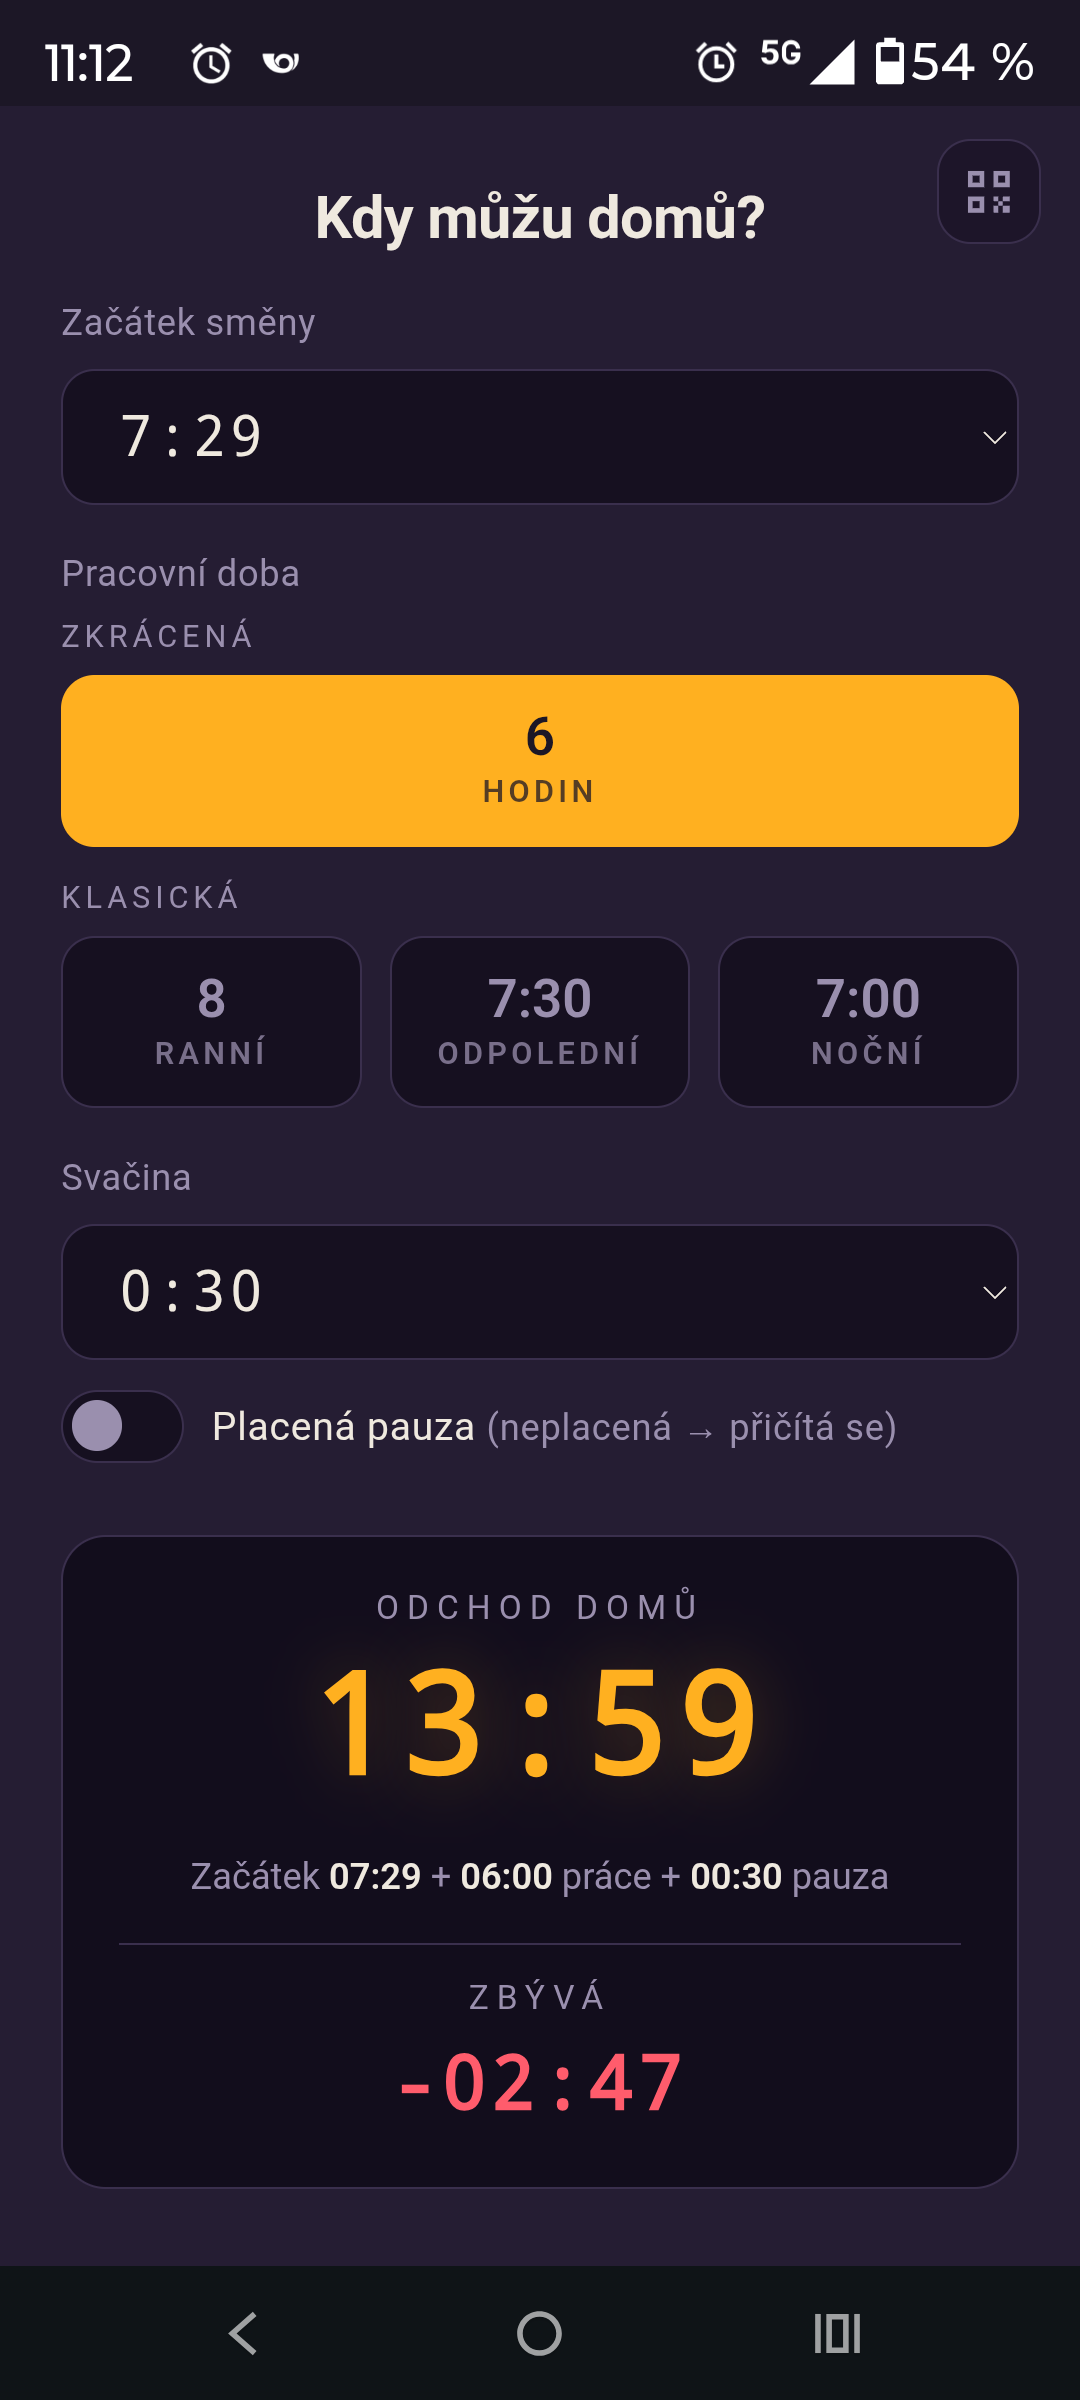
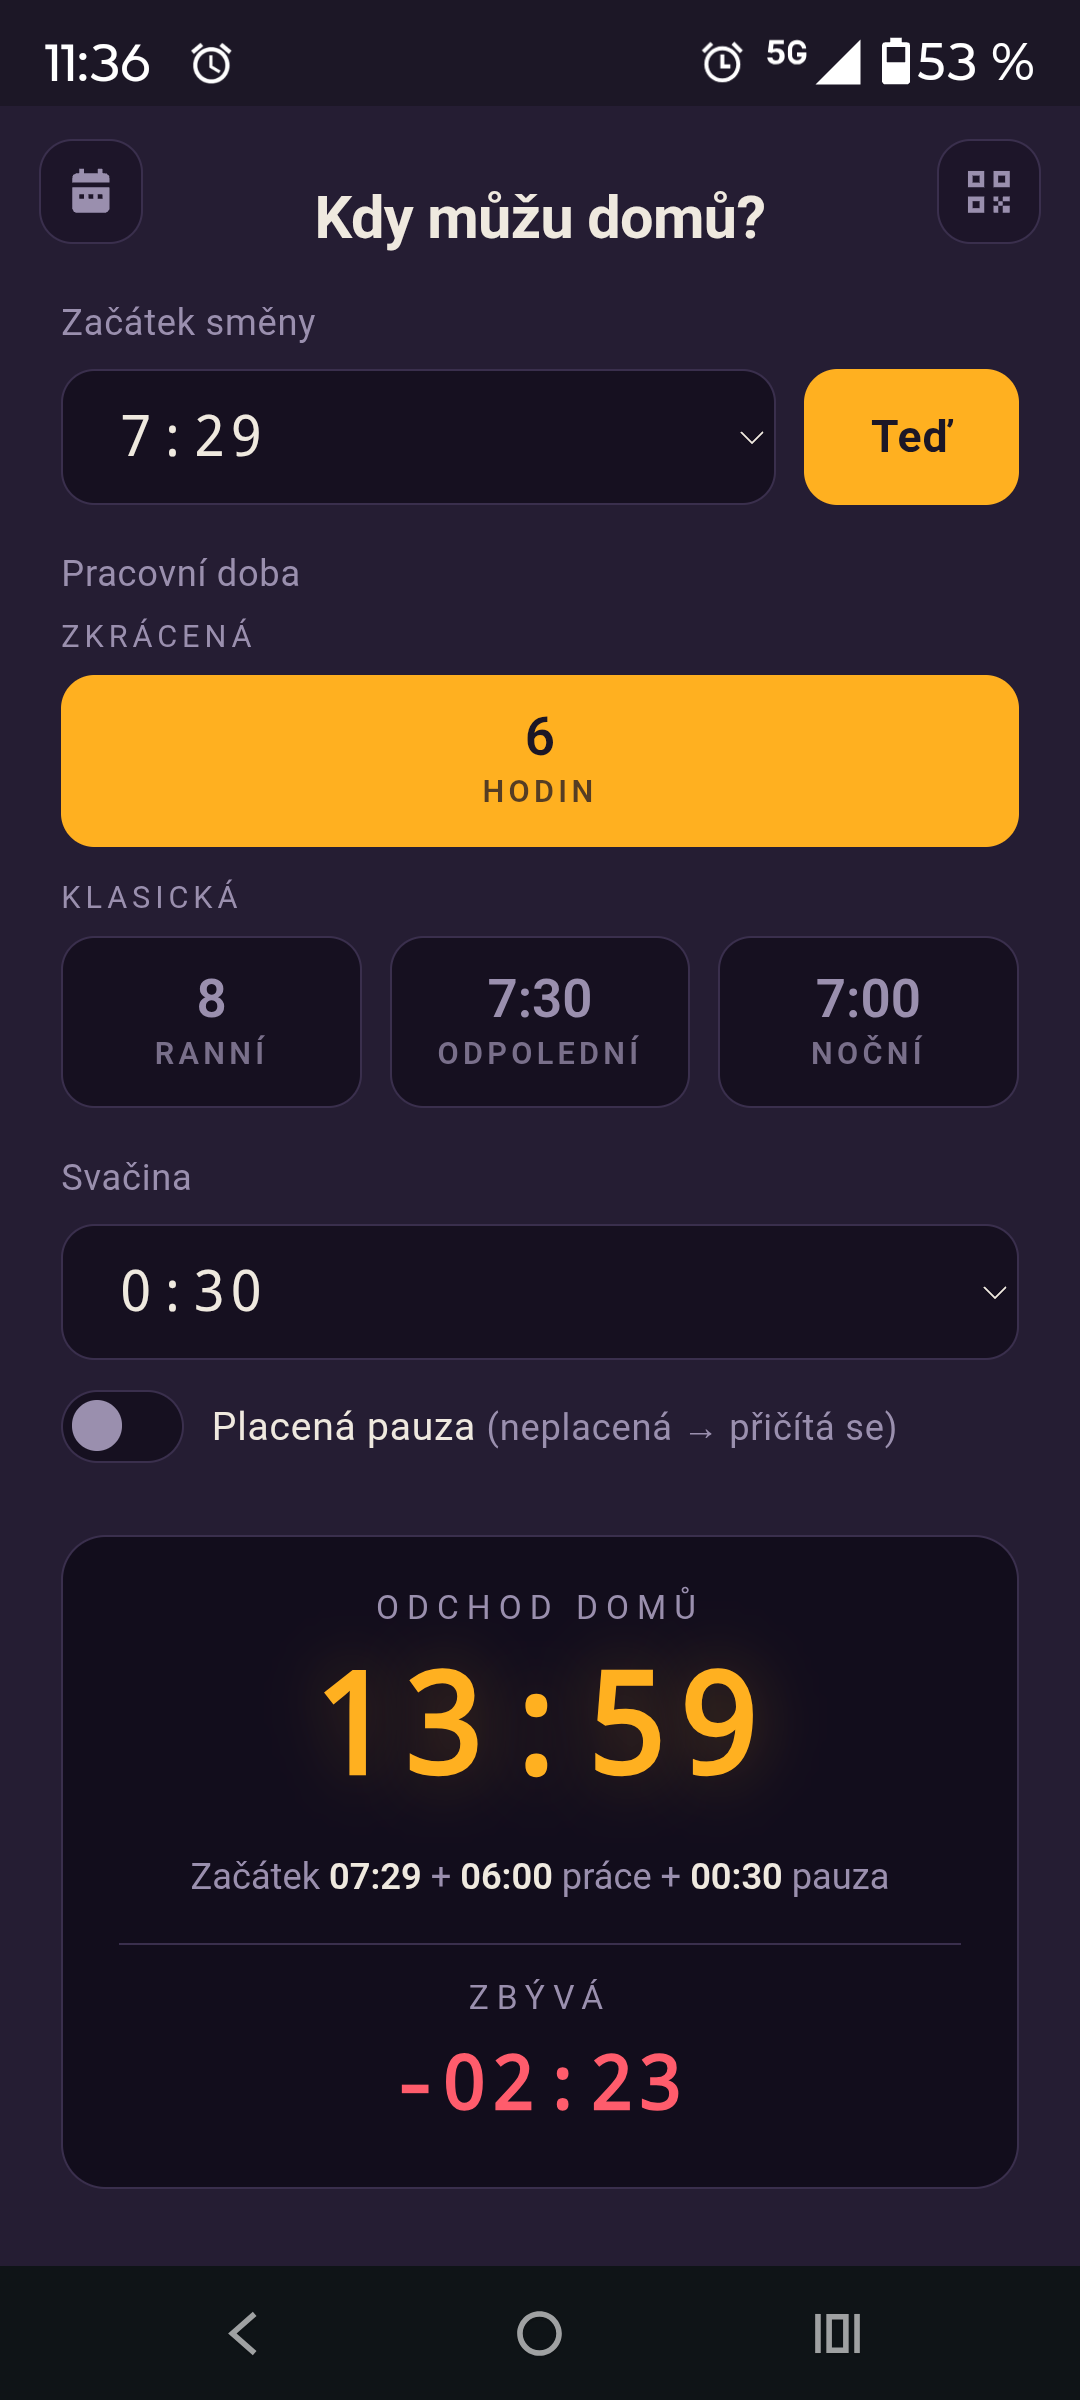
Add files via upload

diff --git a/README.md b/README.md
@@ -15,9 +15,11 @@ Jednoduchá webová appka (PWA), která spočítá, kdy můžeš odejít z prác
 ## Co appka umí
 
 - **Výpočet odchodu** ze zadaného začátku směny.
+- **Tlačítko „Teď"** — jedním ťuknutím nastaví aktuální čas jako začátek směny.
 - **Pracovní doba** na jedno ťuknutí: 6 h (zkrácená) nebo klasická 8 h / 7:30 / 7:00 (ranní / odpolední / noční).
 - **Svačina** s nastavitelnou délkou a přepínačem **placená / neplacená** (placená se do odchodu nepřičítá).
 - **Živý odpočet** — kolik zbývá (červeně) nebo kolik je přesčas (zeleně), aktualizace každou vteřinu.
+- **Připomínka do kalendáře** — vytvoří v telefonu událost na čas odchodu s upozorněním (funguje i při zavřené appce a zamčeném telefonu).
 - **Zapamatování** — začátek směny se drží 9 h, délka směny a nastavení svačiny natrvalo.
 - **Automatické předvyplnění** aktuálního času při startu (dokud nemáš platný uložený začátek).
 - **Funguje offline** a jde nainstalovat na plochu jako běžná aplikace.
@@ -82,6 +84,18 @@ Placená pauza se počítá jako práce, takže odchod **neposouvá**. Když vý
 
 ---
 
+## Připomínka v kalendáři
+
+V rozích nahoře jsou dvě ikonky: **kalendář** (vlevo) a **QR** (vpravo). Kalendář vytvoří v telefonu událost „Odchod domů 🏠" na spočítaný čas s upozorněním — díky tomu tě telefon upozorní, i když je appka zavřená a obrazovka zamčená.
+
+- **Android:** stáhne se soubor `odchod-domu.ics` → otevřeš ho → kalendář nabídne přidání události.
+- **iPhone:** rovnou se nabídne přidání do kalendáře.
+- **PC:** `.ics` otevřeš v Google / Outlook / Apple kalendáři.
+
+Upozornění je v souboru nastavené **na čas události**. Pokud ti kalendář přidá vlastní výchozí připomínku (např. Google 30 min předem), vypni ji v nastavení kalendáře (výchozí připomínky účtu).
+
+---
+
 ## Technické detaily
 
 Appka je čistá **PWA** bez frameworků — jeden HTML soubor s vloženým CSS a JavaScriptem, plus manifest a service worker pro offline režim. Data se ukládají lokálně v prohlížeči (`localStorage`).
@@ -93,6 +107,7 @@ Appka je čistá **PWA** bez frameworků — jeden HTML soubor s vloženým CSS 
 | `sw.js` | Service worker — offline cache |
 | `sdilet.html` | Sdílecí stránka s QR kódem a návodem |
 | `qr.png` | QR kód s adresou aplikace |
+| `screenshot-app.png`, `screenshot-qr.png` | Náhledy do README |
 | `icon-192.png`, `icon-512.png`, `icon-maskable.png` | Ikony aplikace |
 
 ### Vlastní hosting (GitHub Pages)
@@ -106,7 +121,7 @@ Podmínka pro instalaci PWA je **https** — to GitHub Pages zajišťuje zdarma.
 
 ## Omezení
 
-Jako webová appka **neumí budík na pozadí** — signál v čase odchodu by zazněl jen při zapnuté appce s rozsvícenou obrazovkou. Na spolehlivé upozornění při zamčeném telefonu použij systémový budík (appka ti čas odchodu spočítá).
+Jako webová appka **sama neumí zvukový budík na pozadí** — pípnutí přímo v appce by zaznělo jen při zapnuté appce s rozsvícenou obrazovkou. Na spolehlivé upozornění při zamčeném telefonu proto slouží **připomínka v kalendáři** (viz výše), kterou zajistí systémový kalendář.
 
 ---
 
